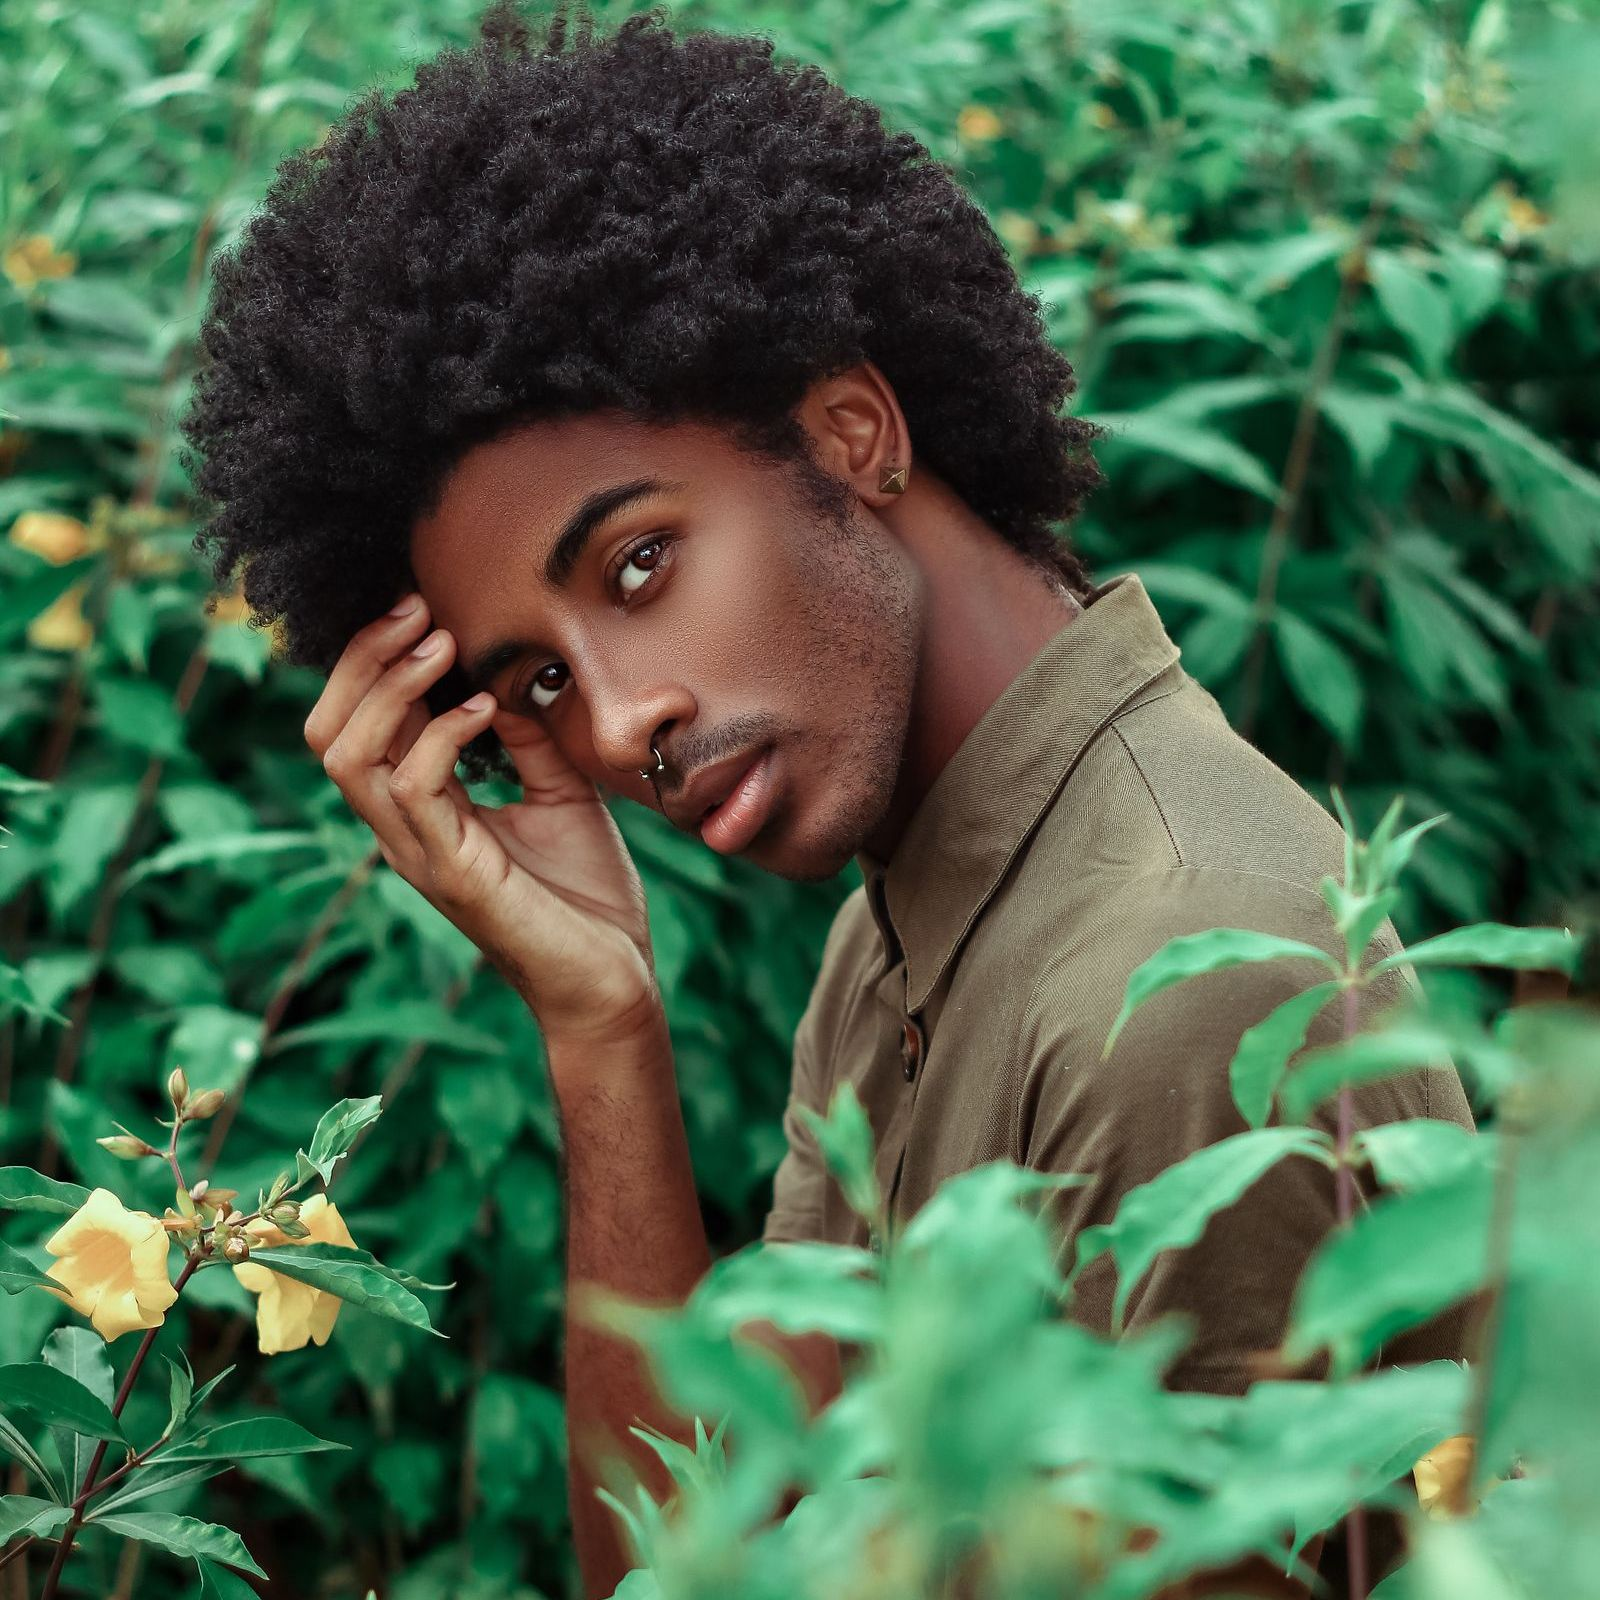
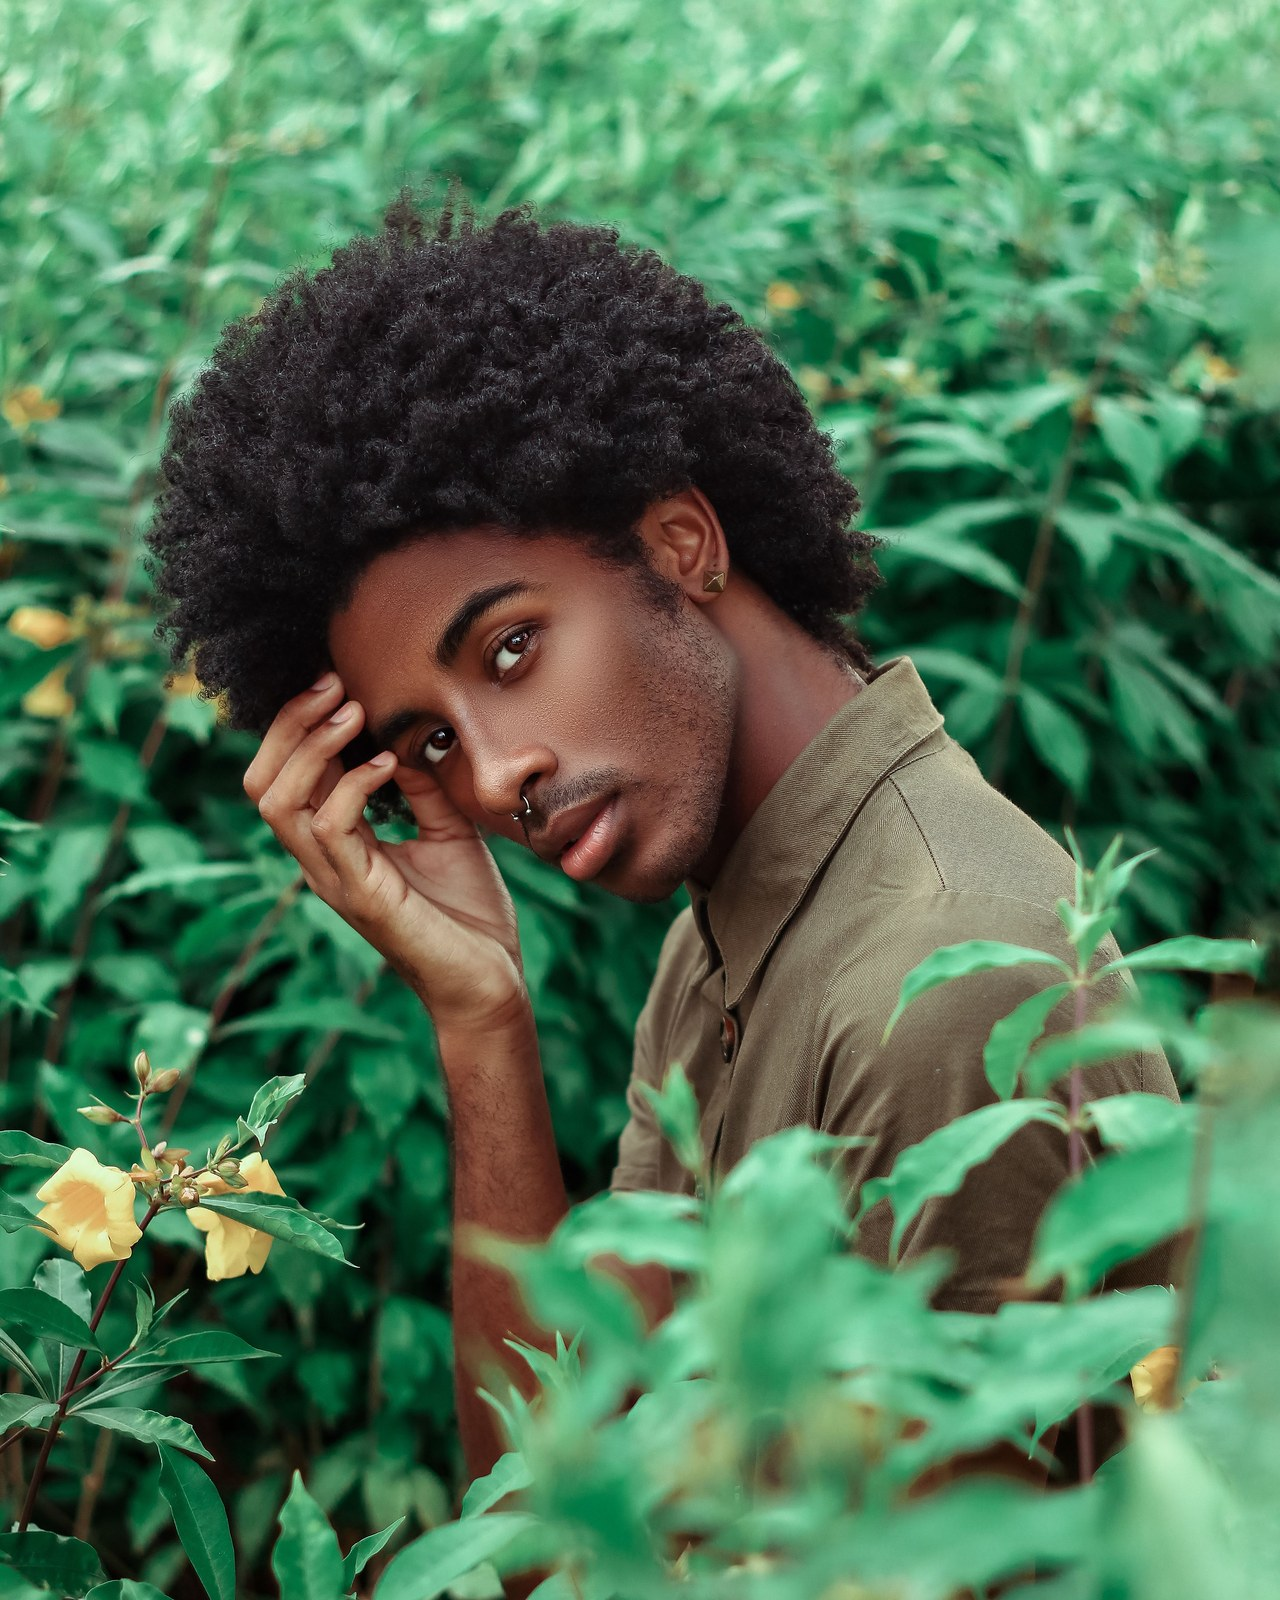
Galeri: karışık en-boy oranları ve soldan sağa sıralama

diff --git a/prisma/seed.ts b/prisma/seed.ts
@@ -41,12 +41,12 @@ export const DEFAULT_LANDING_CONTENT = {
  */
 export const DEFAULT_GALLERY = [
   { file: "gallery-1.jpg", width: 1367, height: 1367, caption: "Keskin geçişli fade", tags: ["Fade", "Line-up"] },
-  { file: "gallery-2.jpg", width: 1600, height: 1600, caption: "Twist ve dolgun sakal", tags: ["Twist", "Sakal"] },
-  { file: "gallery-3.jpg", width: 1600, height: 1600, caption: "Örgüde son düzeltme", tags: ["Örgü", "Sakal"] },
+  { file: "gallery-2.jpg", width: 1280, height: 1600, caption: "Twist ve dolgun sakal", tags: ["Twist", "Sakal"] },
+  { file: "gallery-3.jpg", width: 1600, height: 1067, caption: "Örgüde son düzeltme", tags: ["Örgü", "Sakal"] },
   { file: "gallery-4.jpg", width: 1600, height: 1600, caption: "Uzun örgü, net hat", tags: ["Örgü", "Line-up"] },
   { file: "gallery-5.jpg", width: 1600, height: 1600, caption: "Doğal hacimli afro", tags: ["Afro"] },
-  { file: "gallery-6.jpg", width: 1600, height: 1600, caption: "Şekillendirilmiş afro", tags: ["Afro", "Sakal"] },
-  { file: "gallery-7.jpg", width: 1600, height: 1600, caption: "Yüksek afro, temiz hat", tags: ["Afro", "Line-up"] },
+  { file: "gallery-6.jpg", width: 1280, height: 1600, caption: "Şekillendirilmiş afro", tags: ["Afro", "Sakal"] },
+  { file: "gallery-7.jpg", width: 1600, height: 1067, caption: "Yüksek afro, temiz hat", tags: ["Afro", "Line-up"] },
   { file: "gallery-8.jpg", width: 1600, height: 1600, caption: "Afro ve sakal bakımı", tags: ["Afro", "Sakal"] },
 ];
 
@@ -171,7 +171,10 @@ export async function runSeed(client: PrismaClient) {
     if (!exists) await client.testimonial.create({ data: t });
   }
 
-  // Galeri: her fotoğraf storageKey'ine göre bir kez eklenir (idempotent).
+  // Galeri: her fotoğraf storageKey'ine göre bir kez eklenir (idempotent). Kayıt zaten
+  // varsa yalnızca boyutları tazelenir — dosya yeniden kırpıldığında (ör. kare fotoğraf
+  // dikey/yatay yapıldığında) masonry oranı DB'deki eski boyutta kalmasın; başlık ve
+  // etiketler panelden düzenlenmiş olabileceği için asla ezilmez.
   for (const [i, g] of DEFAULT_GALLERY.entries()) {
     const storageKey = `landing/${g.file}`;
     const exists = await client.galleryPhoto.findFirst({ where: { storageKey } });
@@ -179,6 +182,8 @@ export async function runSeed(client: PrismaClient) {
       await client.galleryPhoto.create({
         data: { storageKey, caption: g.caption, tags: g.tags, width: g.width, height: g.height, sortOrder: i },
       });
+    } else if (exists.width !== g.width || exists.height !== g.height) {
+      await client.galleryPhoto.update({ where: { id: exists.id }, data: { width: g.width, height: g.height } });
     }
   }
 

diff --git a/src/components/landing/gallery/MasonryGrid.tsx b/src/components/landing/gallery/MasonryGrid.tsx
@@ -1,19 +1,40 @@
 "use client";
-import type { GalleryPhoto } from "@/lib/gallery-utils";
+import { distributeColumns, type GalleryPhoto } from "@/lib/gallery-utils";
 import { GalleryCard } from "./GalleryCard";
+import { cn } from "@/lib/utils";
 
 /**
- * CSS sütunlarıyla masonry: satır hizası yoktur, her fotoğraf kendi oranını
- * korur ve sütunlar ekran genişliğine göre 2 → 3 → 4'e çıkar.
+ * Masonry: her fotoğraf kendi oranını korur, satır hizası yoktur. Sütunlar CSS
+ * `columns-*` ile değil, JS ile dolaşımlı dağıtılır; CSS sütunları bir sütunu
+ * doldurup diğerine geçtiği için panelde verilen sıra ekranda yukarıdan aşağı
+ * okunurdu. Dağıtım sunucuda da yapılabildiği için üç kırılım (2/3/4 sütun)
+ * ayrı ayrı basılır ve yalnızca biri görünür — böylece ilk boyamada doğru düzen
+ * gelir, ekran genişliğini ölçmek için istemciye ihtiyaç kalmaz.
  */
+const BREAKPOINTS = [
+  { columns: 2, className: "md:hidden" },
+  { columns: 3, className: "hidden md:flex xl:hidden" },
+  { columns: 4, className: "hidden xl:flex" },
+];
+
 export function MasonryGrid({ photos, onSelect }: { photos: GalleryPhoto[]; onSelect: (index: number) => void }) {
+  // Lightbox özgün listedeki sırayı kullanır; sütuna dağıtırken indeks taşınır.
+  const entries = photos.map((photo, index) => ({ photo, index }));
   return (
-    <ul className="columns-2 gap-3 md:columns-3 xl:columns-4">
-      {photos.map((photo, i) => (
-        <li key={photo.id} className="mb-3 break-inside-avoid">
-          <GalleryCard photo={photo} onSelect={() => onSelect(i)} />
-        </li>
+    <>
+      {BREAKPOINTS.map(({ columns, className }) => (
+        <div key={columns} className={cn("flex gap-4", className)}>
+          {distributeColumns(entries, columns).map((column, columnIndex) => (
+            <ul key={columnIndex} className="flex min-w-0 flex-1 flex-col gap-4">
+              {column.map(({ photo, index }) => (
+                <li key={photo.id}>
+                  <GalleryCard photo={photo} onSelect={() => onSelect(index)} />
+                </li>
+              ))}
+            </ul>
+          ))}
+        </div>
       ))}
-    </ul>
+    </>
   );
 }

diff --git a/tests/unit/gallery-utils.test.ts b/tests/unit/gallery-utils.test.ts
@@ -1,5 +1,5 @@
 import { describe, it, expect } from "vitest";
-import { filterByTag, paginate, nextIndex, prevIndex, normalizeTags } from "@/lib/gallery-utils";
+import { filterByTag, paginate, nextIndex, prevIndex, normalizeTags, distributeColumns } from "@/lib/gallery-utils";
 
 const photos = [
   { id: "1", tags: ["Fade", "Line-up"] },
@@ -98,5 +98,46 @@ describe("normalizeTags", () => {
 
   it("iç boşlukları tek boşluğa indirir", () => {
     expect(normalizeTags("Line   up, Örgü")).toEqual(["Line up", "Örgü"]);
+  });
+});
+
+describe("distributeColumns", () => {
+  const items = ["a", "b", "c", "d", "e", "f", "g", "h"];
+
+  it("8 öğeyi 3 sütuna [3,3,2] olarak dağıtır", () => {
+    const cols = distributeColumns(items, 3);
+    expect(cols).toHaveLength(3);
+    expect(cols.map((c) => c.length)).toEqual([3, 3, 2]);
+  });
+
+  it("soldan sağa, yukarıdan aşağı okunacak biçimde sırayı korur", () => {
+    // Satır satır okunduğunda özgün sıra geri gelmeli.
+    const cols = distributeColumns(items, 3);
+    expect(cols[0]).toEqual(["a", "d", "g"]);
+    expect(cols[1]).toEqual(["b", "e", "h"]);
+    expect(cols[2]).toEqual(["c", "f"]);
+  });
+
+  it("her sütun kendi içinde özgün sırayı korur", () => {
+    const cols = distributeColumns(items, 4);
+    expect(cols.map((c) => c.length)).toEqual([2, 2, 2, 2]);
+    expect(cols[3]).toEqual(["d", "h"]);
+  });
+
+  it("öğe sayısı sütun sayısından azsa boş sütunlar yine de döner", () => {
+    const cols = distributeColumns(["a", "b"], 4);
+    expect(cols).toHaveLength(4);
+    expect(cols[2]).toEqual([]);
+    expect(cols[3]).toEqual([]);
+  });
+
+  it("boş listede sütunlar boş döner", () => {
+    expect(distributeColumns([], 2)).toEqual([[], []]);
+  });
+
+  it("hiçbir öğeyi düşürmez ya da çoğaltmaz", () => {
+    for (const n of [1, 2, 3, 4, 5]) {
+      expect(distributeColumns(items, n).flat().sort()).toEqual([...items].sort());
+    }
   });
 });

diff --git a/tests/integration/seed.test.ts b/tests/integration/seed.test.ts
@@ -62,6 +62,21 @@ describe("runSeed", () => {
     expect(await prisma.galleryPhoto.count()).toBe(DEFAULT_GALLERY.length);
   });
 
+  it("dosya yeniden kırpıldığında var olan kaydın boyutlarını tazeler", async () => {
+    await runSeed(prisma);
+    const portrait = DEFAULT_GALLERY.find((g) => g.file === "gallery-2.jpg")!;
+    const row = await prisma.galleryPhoto.findFirstOrThrow({ where: { storageKey: "landing/gallery-2.jpg" } });
+    // Eski (kare) boyutlarla kalmış bir kayıt: seed yeniden çalıştığında gerçek orana dönmeli.
+    await prisma.galleryPhoto.update({ where: { id: row.id }, data: { width: 1600, height: 1600, caption: "Elle yazıldı" } });
+
+    await runSeed(prisma);
+
+    const fixed = await prisma.galleryPhoto.findUniqueOrThrow({ where: { id: row.id } });
+    expect(fixed.width).toBe(portrait.width);
+    expect(fixed.height).toBe(portrait.height);
+    expect(fixed.caption).toBe("Elle yazıldı");
+  });
+
   it("eski (Tur 3 öncesi) varsayılan aboutText'i yeni erkek odaklı metne taşır, özel metne dokunmaz", async () => {
     await prisma.settings.update({ where: { id: 1 }, data: { aboutText: LEGACY_ABOUT_TEXT } });
     await runSeed(prisma);

diff --git a/src/lib/gallery-utils.ts b/src/lib/gallery-utils.ts
@@ -67,3 +67,16 @@ export function normalizeTags(input: string | string[]): string[] {
   }
   return out;
 }
+
+/**
+ * Masonry sütunlarını dolaşımlı (round-robin) dağıtır: öğe `i` sütun `i % n`'e
+ * gider. Böylece sütunlar satır satır okunduğunda özgün sıra korunur — panelde
+ * verilen sıra ekranda soldan sağa, yukarıdan aşağı okunur (CSS `columns-*`
+ * ise sütunu doldurup diğerine geçtiği için bunu ters çevirirdi).
+ */
+export function distributeColumns<T>(items: T[], columns: number): T[][] {
+  const count = Math.max(1, Math.trunc(columns));
+  const result: T[][] = Array.from({ length: count }, () => []);
+  items.forEach((item, i) => result[i % count].push(item));
+  return result;
+}
